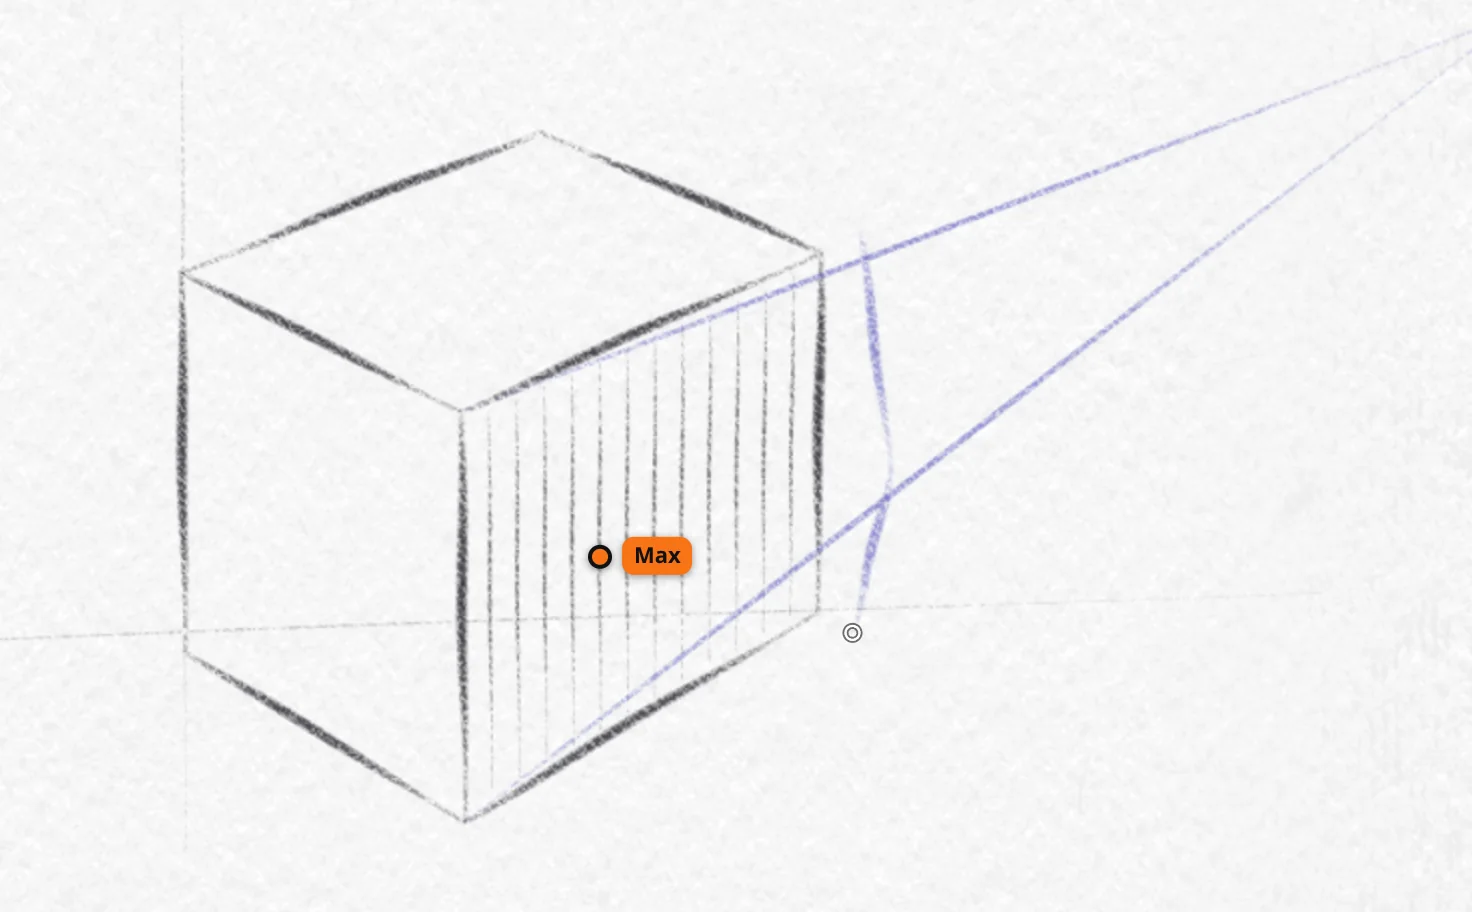
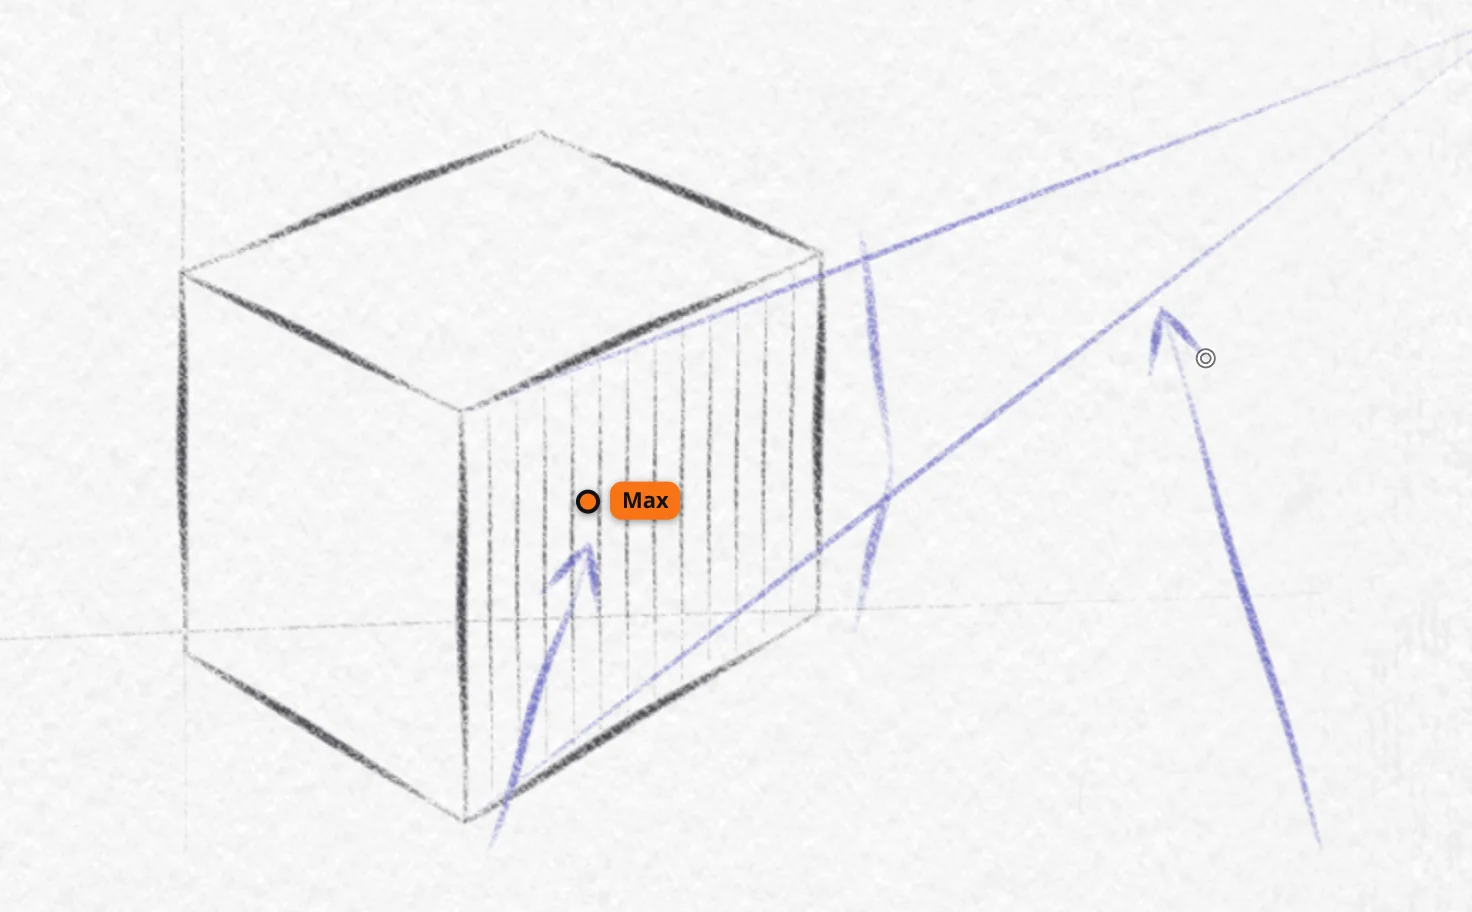
#246: выноски «рисуем вместе» — настоящие стрелки учителя на листе, подписи снаружи
Совет из ревью ChatGPT: живой жест на листе, точное объяснение рядом,
а не UI-плашки поверх рисунка.

diff --git a/apps/web/landing/index.html b/apps/web/landing/index.html
@@ -177,24 +177,22 @@
         </li>
       </ol>
 
-      <!-- Step 3 is the product, so it gets the width. The callouts explain two
+      <!-- Step 3 is the product, so it gets the width. The notes explain two
            things the app actually does; they are not decoration. -->
       <div class="together">
         <h3 class="together-title">Draw together</h3>
         <figure class="together-sheet">
           <img class="t-dark" src="./assets/together-dark.webp" width="1472" height="912" loading="lazy"
-               alt="A student's box drawing. The teacher's perspective lines run to the vanishing point in blue; the student's cursor, labelled Max, sits on the shaded side." />
+               alt="A student's box drawing. The teacher's perspective lines run to the vanishing point in blue, and two arrows in the same blue point at the correction and at the student's cursor, labelled Max." />
           <img class="t-light" src="./assets/together-light.webp" width="1472" height="912" loading="lazy"
-               alt="A student's box drawing. The teacher's perspective lines run to the vanishing point in blue; the student's cursor, labelled Max, sits on the shaded side." />
-          <figcaption>
-            <span class="callout callout-teacher" style="left:72%; top:24%">
-              <strong>Your correction, on its own layer</strong>Hide it, and the student tries again.
-            </span>
-            <span class="callout callout-student" style="left:41%; top:66%">
-              <strong>Every stroke shows up as it's drawn</strong>With each person's cursor and name.
-            </span>
-          </figcaption>
+               alt="A student's box drawing. The teacher's perspective lines run to the vanishing point in blue, and two arrows in the same blue point at the correction and at the student's cursor, labelled Max." />
         </figure>
+        <!-- The teacher's own arrows, drawn in the room, leave the bottom edge of the
+             sheet at these two points; each note sits under its arrow. -->
+        <div class="together-notes">
+          <p class="note note-student"><strong>Every stroke shows up as it's drawn</strong>With each person's cursor and name.</p>
+          <p class="note note-teacher"><strong>Your correction, on its own layer</strong>Hide it, and the student tries again.</p>
+        </div>
         <p class="together-note">Each of you zooms and turns the sheet on your own screen, without moving it for the other.</p>
       </div>
     </section>

diff --git a/apps/web/landing/landing.css b/apps/web/landing/landing.css
@@ -320,25 +320,15 @@ main { max-width: var(--wide); margin: 0 auto; padding: 0 var(--gutter); }
   box-shadow: var(--shadow), 0 0 0 1px var(--border);
 }
 .together-sheet img { width: 100%; }
-.callout {
-  position: absolute;
-  max-width: 17rem;
-  padding: 12px 16px;
-  border-radius: 12px;
-  background: var(--raised);
-  color: var(--dim);
-  border: 1px solid var(--border);
-  box-shadow: 0 10px 30px -12px rgba(0, 0, 0, 0.45);
-  font-size: 0.92rem;
-  line-height: 1.4;
-}
-.callout strong { display: block; color: var(--bright); font-weight: 600; margin-bottom: 2px; }
-.callout-teacher { border-left: 3px solid #5a5ad0; }
-.callout-student { border-left: 3px solid #f07818; }
-.together-note { color: var(--dim); }
+.together-notes { position: relative; min-height: 5.5rem; }
+.note { position: absolute; top: 0; max-width: 19rem; color: var(--dim); font-size: 0.95rem; line-height: 1.45; }
+.note strong { display: block; color: var(--bright); font-weight: 600; }
+.note-student { left: 33%; transform: translateX(-12px); }
+.note-teacher { right: 10%; transform: translateX(12px); text-align: right; }
+.together-note { color: var(--dim); margin-top: 8px; }
 @media (max-width: 760px) {
-  .together-sheet figcaption { position: static; display: grid; gap: 10px; padding: 12px; background: var(--surface); }
-  .callout { position: static; max-width: none; }
+  .together-notes { display: grid; gap: 14px; min-height: 0; }
+  .note { position: static; max-width: none; transform: none; text-align: left; }
 }
 
 /* Homework */
